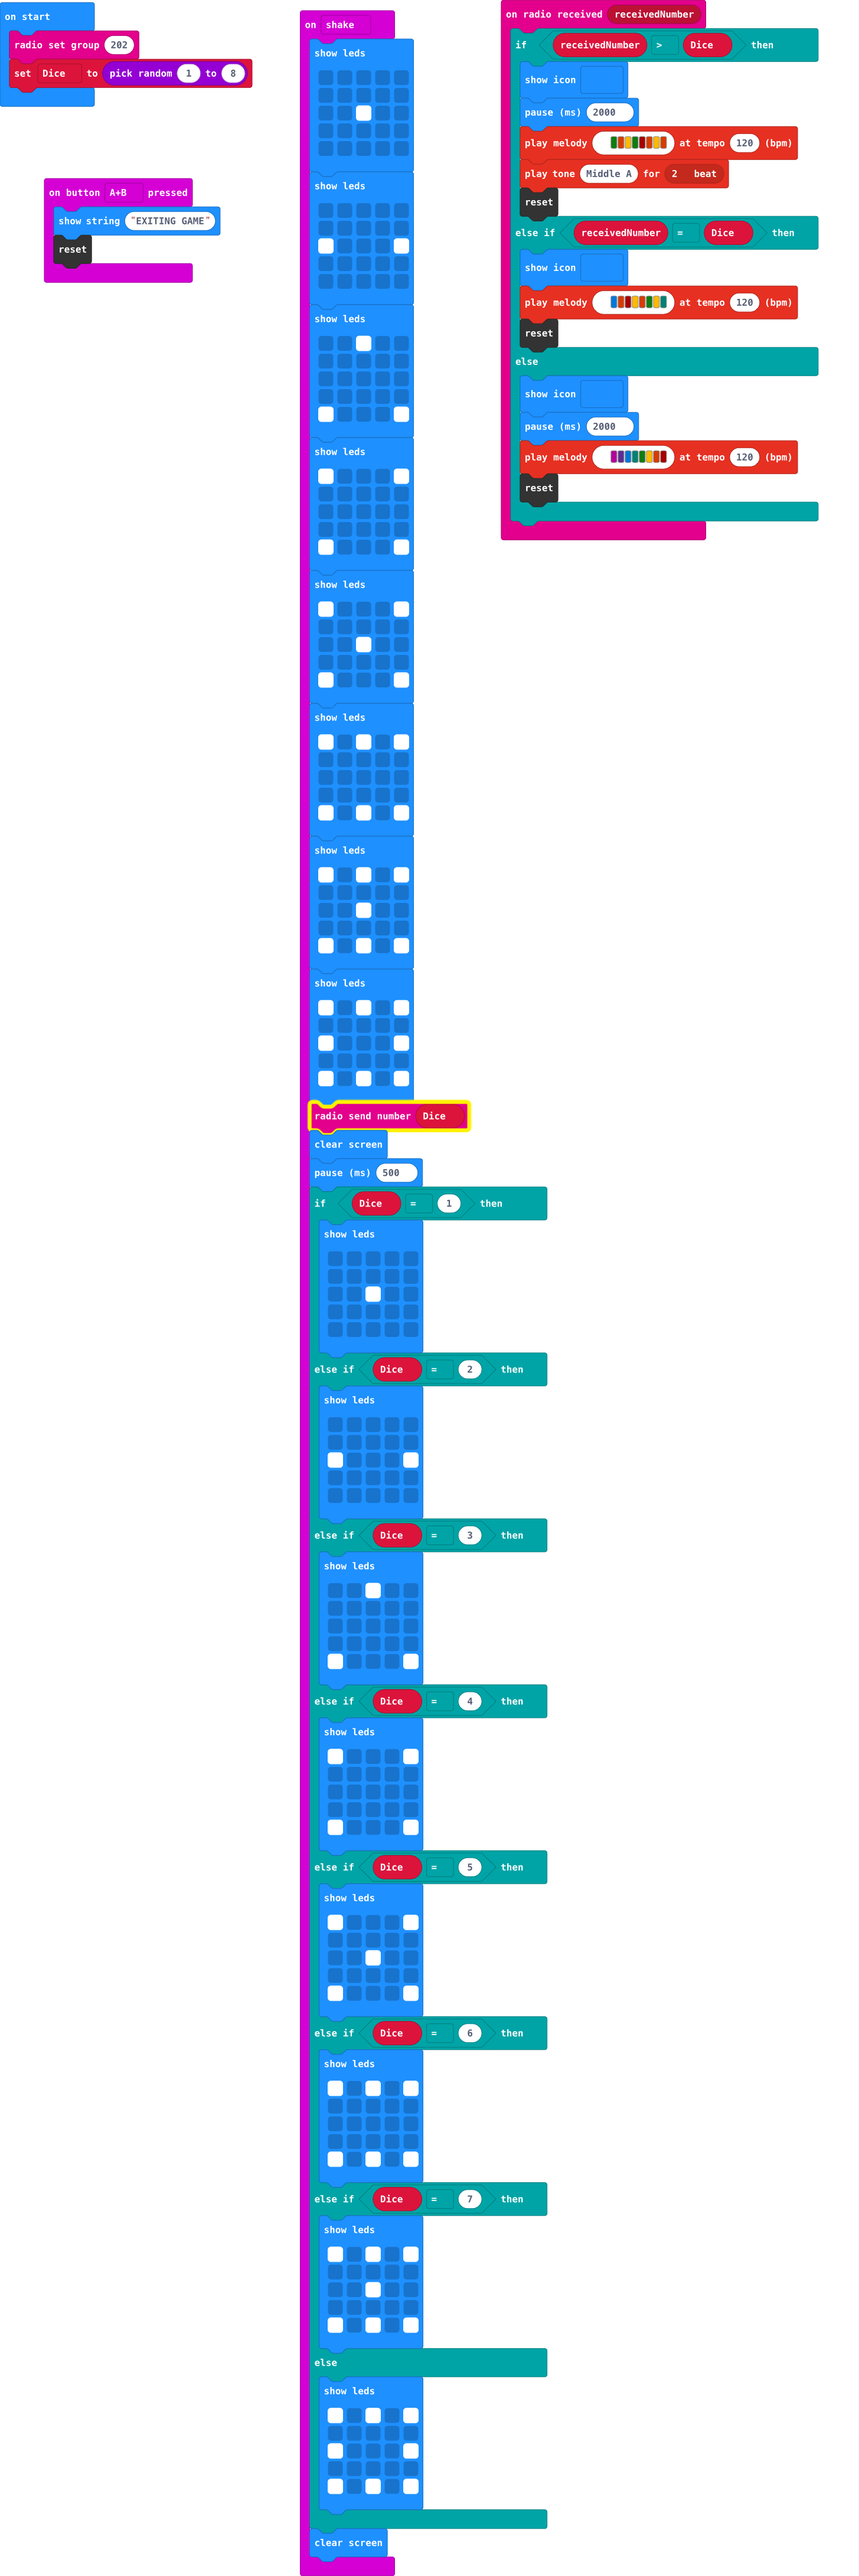
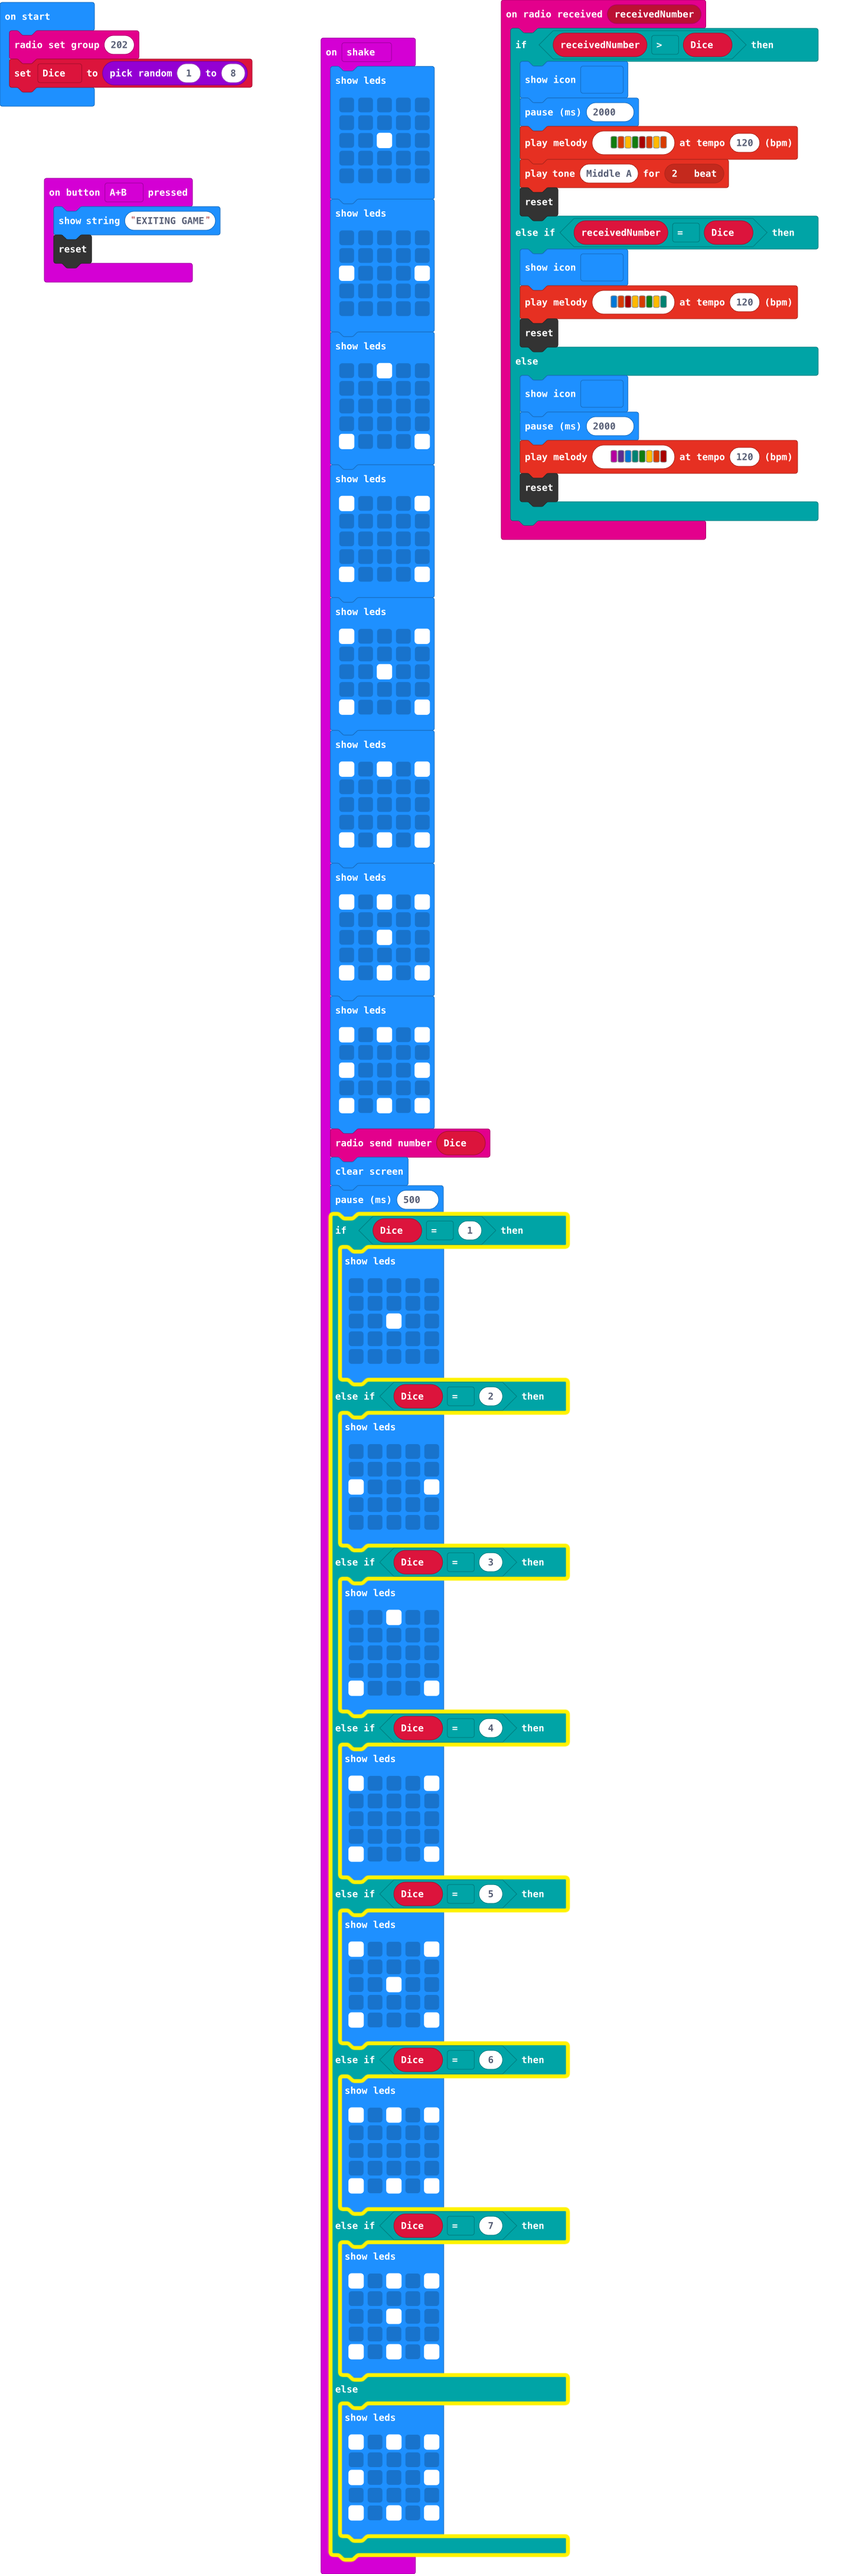
Update main.blocks, main.ts

Changed region(s): [[0.3402, 0.0, 0.6804, 1.0]]

diff --git a/main.ts b/main.ts
@@ -145,7 +145,6 @@ input.onGesture(Gesture.Shake, function () {
             # . # . #
             `)
     }
-    basic.clearScreen()
 })
 let Dice = 0
 radio.setGroup(202)
